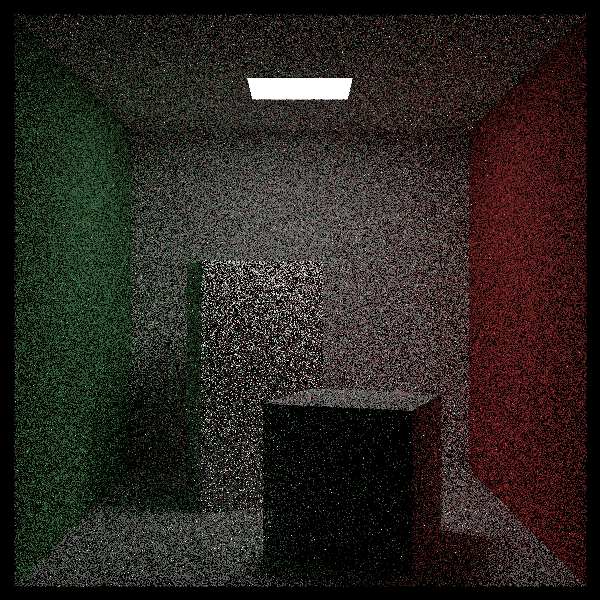
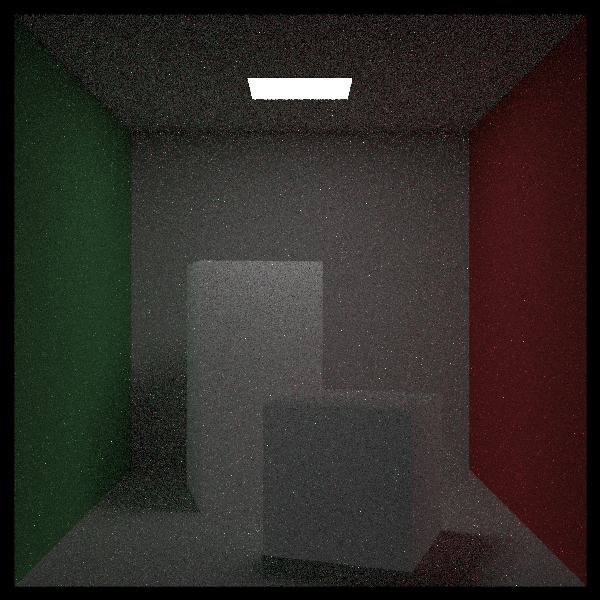
further improved PDF

diff --git a/src/lib.rs b/src/lib.rs
@@ -1,3 +1,4 @@
+use pdf::{HittablePDF, MixedPDF};
 // Rust imports
 use rand::rngs::SmallRng;
 use rand::{Rng, SeedableRng};
@@ -7,6 +8,7 @@ use indicatif::ProgressBar;
 use rayon::prelude::*;
 use std::error::Error;
 use std::f64::consts::PI;
+use std::ops::Index;
 use std::time::Instant;
 
 // Raytracer imports
@@ -61,6 +63,24 @@ pub fn render(json_scene: JSONScene, config: Config) -> Result<Vec<Color>, Box<d
         }
     }
 
+    let mut lights: Vec<Element> = Vec::new();
+
+    for json_element in json_scene.lights {
+        match json_element {
+            JSONElement::JSONQuad(q) => q.add_as_element(&mut lights),
+            JSONElement::JSONSphere(s) => s.add_as_element(&mut lights),
+            JSONElement::JSONTriangle(t) => t.add_as_element(&mut lights),
+            JSONElement::JSONBox(b) => b.add_as_element(&mut lights),
+        }
+
+        match json_element {
+            JSONElement::JSONQuad(q) => q.add_as_element(&mut objects),
+            JSONElement::JSONSphere(s) => s.add_as_element(&mut objects),
+            JSONElement::JSONTriangle(t) => t.add_as_element(&mut objects),
+            JSONElement::JSONBox(b) => b.add_as_element(&mut objects),
+        }
+    }
+
     // the BHVNode creator will retuned a Box<Hittable>, either are BHVNode or a Element
     log::info!("Creating the BHV node tree");
     let end = objects.len();
@@ -81,7 +101,7 @@ pub fn render(json_scene: JSONScene, config: Config) -> Result<Vec<Color>, Box<d
     // use Rayon parallel iterator to iterate over the bands and render per line
     let start: Instant = Instant::now();
     bands.into_par_iter().for_each(|(i, band)| {
-        render_line(i as i64, band, &camera, &bhv_tree, &config);
+        render_line(i as i64, band, &camera, &bhv_tree, &lights, &config);
         pb.inc(1);
     });
 
@@ -98,6 +118,7 @@ pub fn render_line(
     band: &mut [Color],
     camera: &Camera,
     bhv_tree: &Box<dyn elements::Hittable + Sync>,
+    lights: &Vec<Element>,
     config: &Config,
 ) {
     let mut rng = SmallRng::seed_from_u64(y as u64);
@@ -110,7 +131,7 @@ pub fn render_line(
         for _i in 0..config.samples {
             // get multiple rays for anti alliasing, and add the colors
             let ray: Ray = camera.get_prime_ray(x as i64, y, &mut rng);
-            color += ray_color(&bhv_tree, &config, &ray, config.max_depth, &mut rng);
+            color += ray_color(&bhv_tree, &lights, &config, &ray, config.max_depth, &mut rng);
         }
 
         if color.has_nan() {
@@ -130,6 +151,7 @@ pub fn render_line(
 // limit the number of rays it will scatter/reflect by setting depth (e.g. to 32)
 fn ray_color(
     bhv_tree: &Box<dyn elements::Hittable + Sync>,
+    lights: &Vec<Element>,
     config: &Config,
     ray: &Ray,
     depth: usize,
@@ -150,7 +172,6 @@ fn ray_color(
 
             // we hit a light, so we return the color from emmission and end here
             if let Some(c) = hit.material.emitted(ray, &hit) {
-
                 return c;
             }
 
@@ -160,15 +181,20 @@ fn ray_color(
                 //  scattered rays (we assume every object has scattered rays, although in some materials (like metal) its actually a reflected or refracted (glass) ray)
                 let mut color_from_scatter = Color::new(0.0, 0.0, 0.0);
 
-                let surface_pdf = PDF::CosinePDF(CosinePDF::new(hit.normal));
+                let light_pdf: PDF = PDF::HittablePDF(HittablePDF::new(hit.point, lights[0]));
+                let cosine_pdf: PDF = PDF::CosinePDF(CosinePDF::new(hit.normal));
+                let mixed_pdf: PDF = PDF::MixedPDF(MixedPDF::new(hit.point, light_pdf, cosine_pdf));
 
-                let scattered = Ray::new(hit.point, surface_pdf.generate(rng));
-                let pdf_val = surface_pdf.value(scattered.direction);
+
+                let scattered = Ray::new(hit.point, mixed_pdf.generate());
+                //print!("scattered: {:?}", scattered);
+                let pdf_val = mixed_pdf.value(scattered.direction);
+                //println!("{}", pdf_val);
 
                 // there is a scattered ray, so lets get the color of that ray
                 // call the ray_color function again, now with the reflected ray but decrease the depth by 1 so that we dont run into an infinite loop
                 let target_color: Color =
-                    ray_color(&bhv_tree, &config, &scattered, depth - 1, rng);
+                    ray_color(&bhv_tree, &lights, &config, &scattered, depth - 1, rng);
 
                 // get the
                 let scattering_pdf: f64 =

diff --git a/src/pdf.rs b/src/pdf.rs
@@ -1,28 +1,29 @@
 use std::f64::consts::PI;
 
-use rand::Rng;
+use rand::{Rng, rngs::SmallRng, SeedableRng};
 
 use crate::{vec3::Vec3, onb::Onb, elements::{Hittable, Element}};
 
 // struct for Probability Density Functions 
-#[derive(Debug, Clone, Copy)]
 pub enum PDF {
     SpherePDF(SpherePDF),
     CosinePDF(CosinePDF),
     HittablePDF(HittablePDF),
+    MixedPDF(MixedPDF),
 }
 
 pub trait PDFTrait {
-    fn generate(&self, rng: &mut impl Rng) -> Vec3;
+    fn generate(&self) -> Vec3;
     fn value(&self, direction: Vec3) -> f64;
 }
 
 impl PDFTrait for PDF {
-    fn generate(&self, rng: &mut impl Rng) -> Vec3 {
+    fn generate(&self) -> Vec3 {
         match self {
-            PDF::SpherePDF(s) => s.generate(rng),
-            PDF::CosinePDF(c) => c.generate(rng),
-            PDF::HittablePDF(h) => h.generate(rng),
+            PDF::SpherePDF(s) => s.generate(),
+            PDF::CosinePDF(c) => c.generate(),
+            PDF::HittablePDF(h) => h.generate(),
+            PDF::MixedPDF(m) => m.generate(),
         }
     }
 
@@ -31,7 +32,43 @@ impl PDFTrait for PDF {
             PDF::SpherePDF(s) => s.value(direction),
             PDF::CosinePDF(c) => c.value(direction),
             PDF::HittablePDF(h) => h.value(direction),
+            PDF::MixedPDF(m) => m.value(direction),
         }
+    }
+}
+
+pub struct MixedPDF {
+    pub origin: Vec3,
+    pub p1: Box<dyn PDFTrait>,
+    pub p2: Box<dyn PDFTrait>,
+}
+
+// PDF for a hittable object
+impl PDFTrait for MixedPDF {
+    //combine the values from the two PDF's
+    fn value(&self, direction: Vec3) -> f64 {
+        0.5 * self.p1.value(direction) + 0.5 * self.p2.value(direction)
+    }
+    
+    //pick a random ray from one of the PDFs
+    fn generate(&self) -> Vec3 {
+        let mut rng = SmallRng::from_entropy();
+        let r = rng.gen_range(0.0..1.0);
+        if r < 0.5 {
+            self.p1.generate()
+        } else {
+            self.p2.generate()
+        }
+    }
+}
+
+impl MixedPDF {
+    pub fn new(origin: Vec3, p1: impl PDFTrait + 'static, p2: impl PDFTrait + 'static) -> Self {
+        MixedPDF { 
+            origin,
+            p1: Box::new(p1),
+            p2: Box::new(p2),
+         }
     }
 }
 
@@ -48,8 +85,17 @@ impl PDFTrait for HittablePDF {
         self.object.pdf_value(self.origin, direction)
     }
     
-    fn generate(&self, rng: &mut impl Rng) -> Vec3 {
+    fn generate(&self) -> Vec3 {
         self.object.random(self.origin)
+    }
+}
+
+impl HittablePDF {
+    pub fn new(origin: Vec3, object: Element) -> Self {
+        HittablePDF { value: 0., 
+            origin, 
+            object,
+         }
     }
 }
 
@@ -65,8 +111,9 @@ impl PDFTrait for SpherePDF {
         1. / (4. * PI)
     }
     
-    fn generate(&self, rng: &mut impl Rng) -> Vec3 {
-        Vec3::new_random_unit_vector(rng)
+    fn generate(&self) -> Vec3 {
+        let mut rng = SmallRng::from_entropy();
+        Vec3::new_random_unit_vector(&mut rng)
     }
 }
 
@@ -90,7 +137,8 @@ impl PDFTrait for CosinePDF {
         0.0_f64.max(cosine_theta / PI)
     }
 
-    fn generate(&self, rng: &mut impl Rng) -> Vec3 {
-        self.uvw.local_vec(Vec3::random_cosine_direction(rng))
+    fn generate(&self) -> Vec3 {
+        let mut rng = SmallRng::from_entropy();
+        self.uvw.local_vec(Vec3::random_cosine_direction(&mut rng))
     }
 }

diff --git a/src/elements.rs b/src/elements.rs
@@ -264,7 +264,7 @@ impl Quad {
         let normal: Vec3 = n.normalized();
         let D: f64 = normal.dot(&Q);
         let w: Vec3 = n / n.dot(&n);
-        let area: f64 = normal.length();
+        let area: f64 = n.length();
 
         Quad {
             Q,
@@ -361,7 +361,7 @@ impl Hittable for Quad {
 
     fn random(&self, origin: Vec3) -> Vec3 {
         
-        let mut rng = SmallRng::seed_from_u64(y as u64);
+        let mut rng = SmallRng::from_entropy();
 
         let r0 = rng.gen_range(0.0..1.0);
         let r1 = rng.gen_range(0.0..1.0);
@@ -373,7 +373,7 @@ impl Hittable for Quad {
 
 // Box element
 
-#[derive(Serialize, Deserialize, Debug, Clone)]
+#[derive(Serialize, Deserialize, Debug, Clone, Copy)]
 pub struct JSONBox {
     pub a: Vec3,
     pub b: Vec3,

diff --git a/src/config.rs b/src/config.rs
@@ -52,6 +52,7 @@ impl Default for Config {
 #[derive(Serialize, Deserialize, Debug)]
 pub struct JSONScene {
     pub elements: Vec<JSONElement>,
+    pub lights: Vec<JSONElement>,
 }
 
 #[derive(Debug)]
